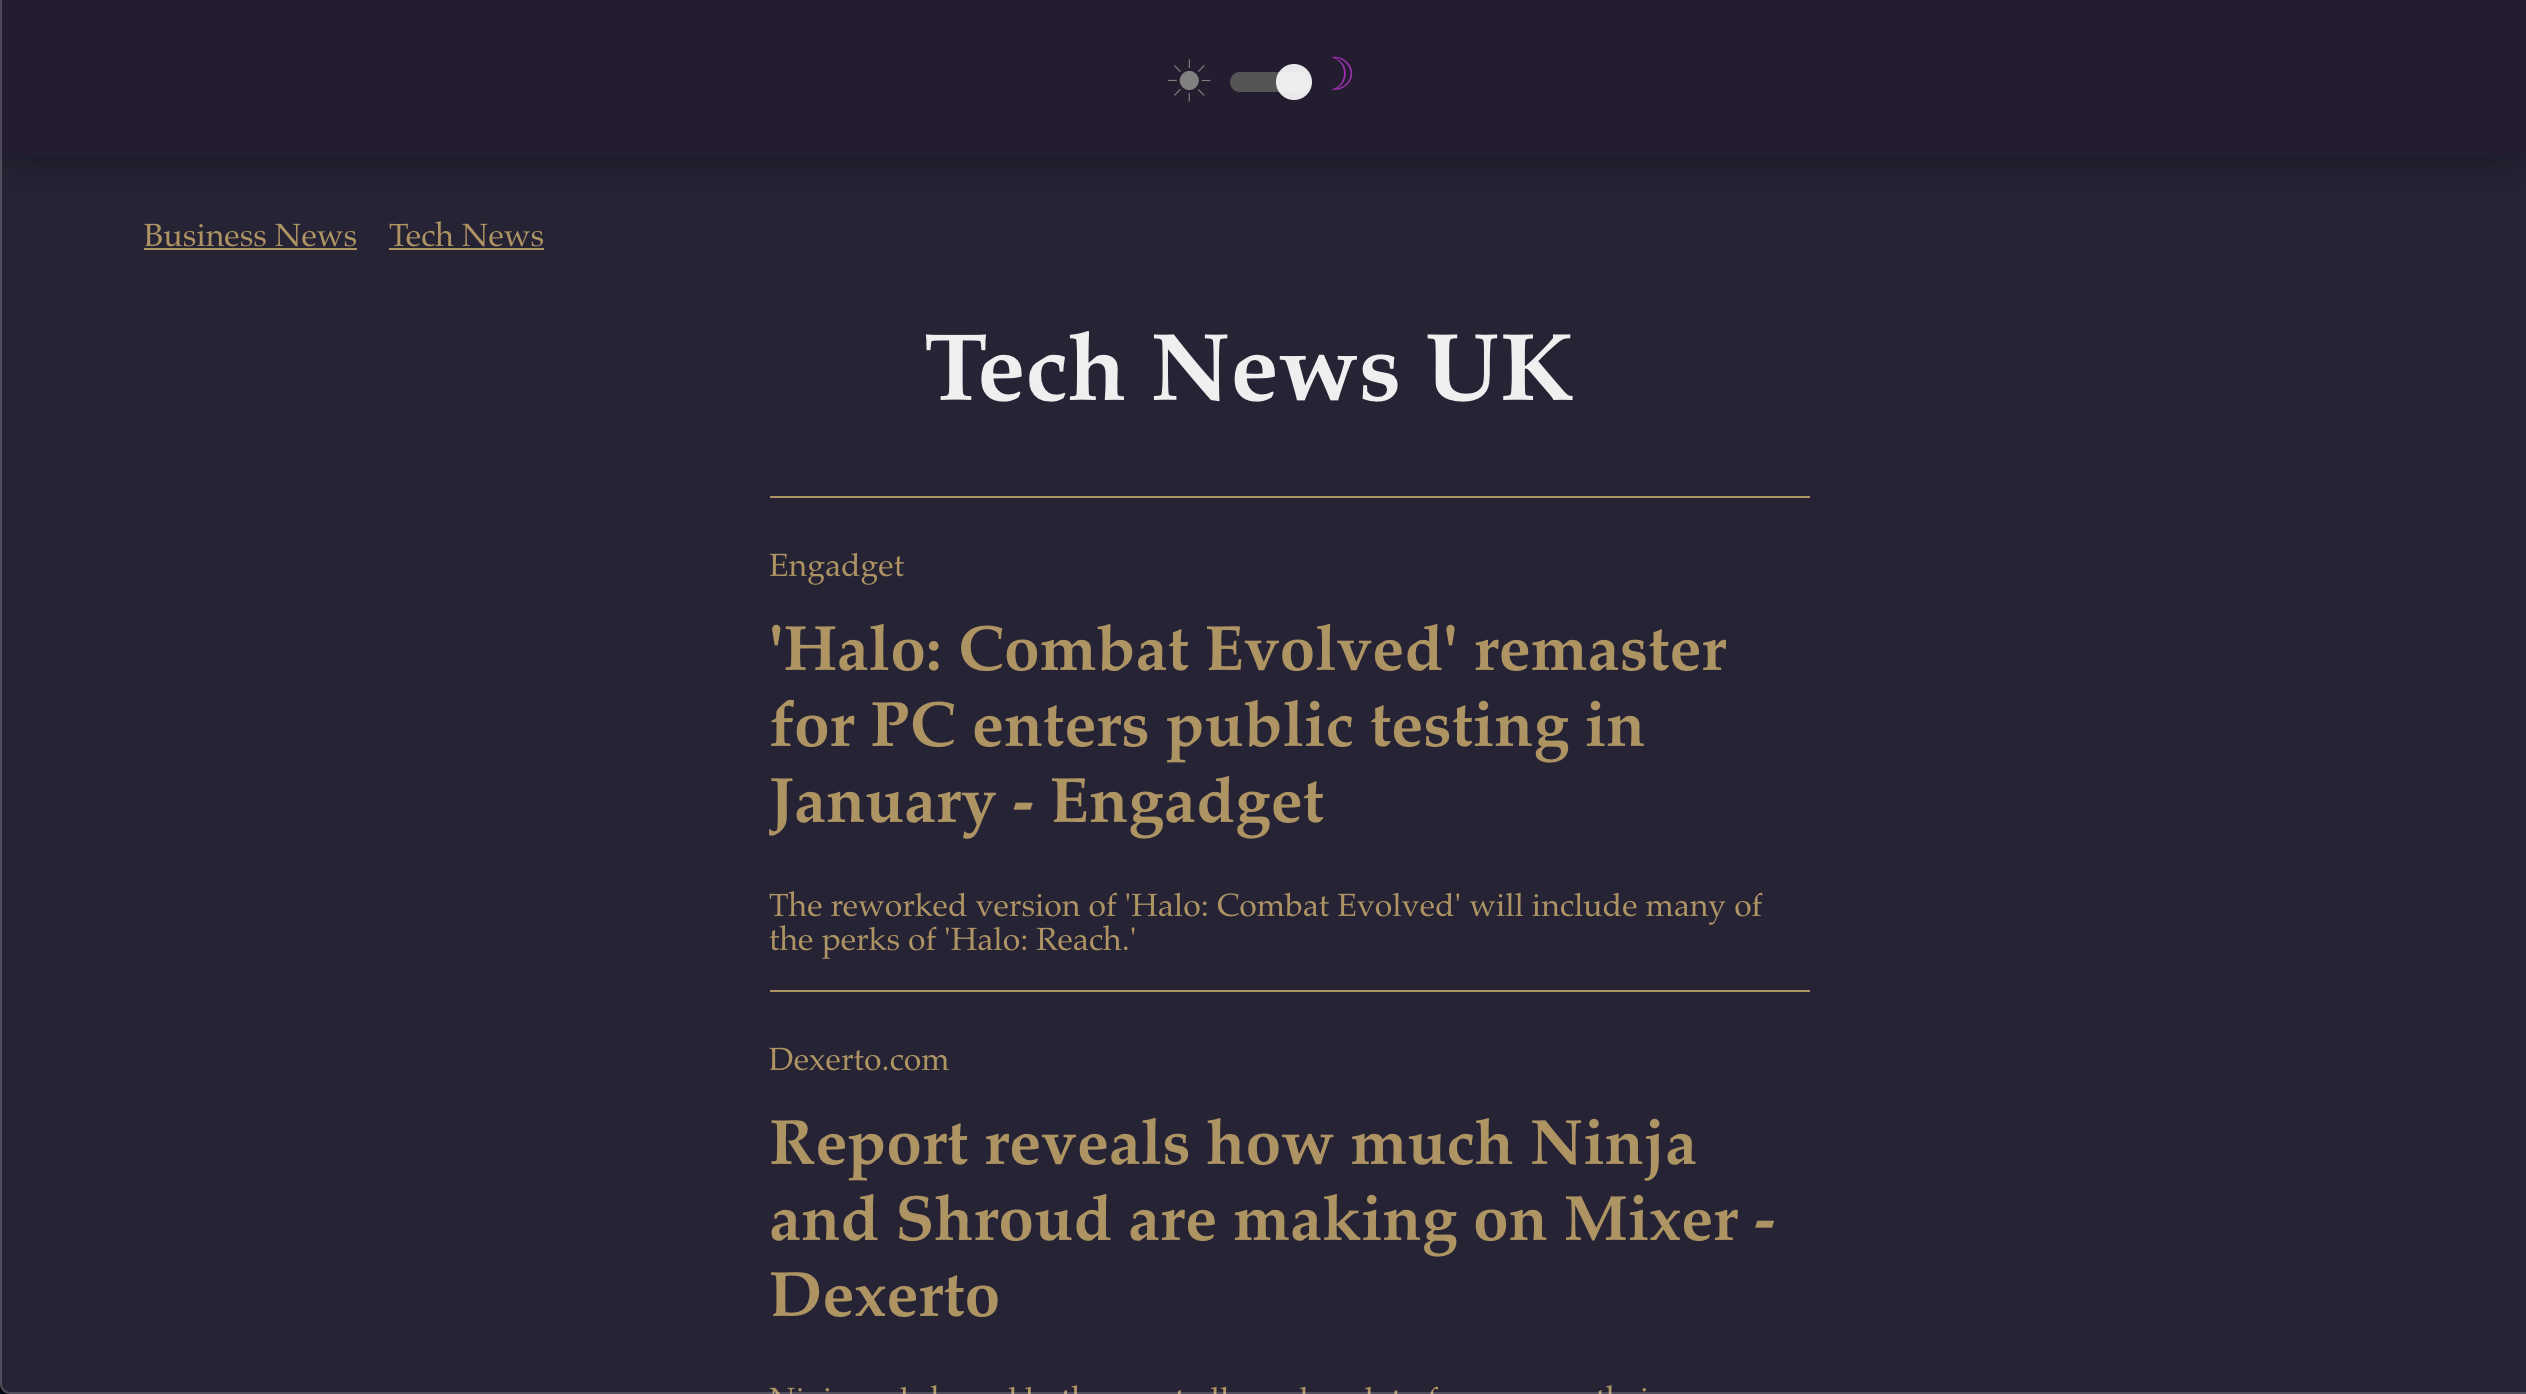
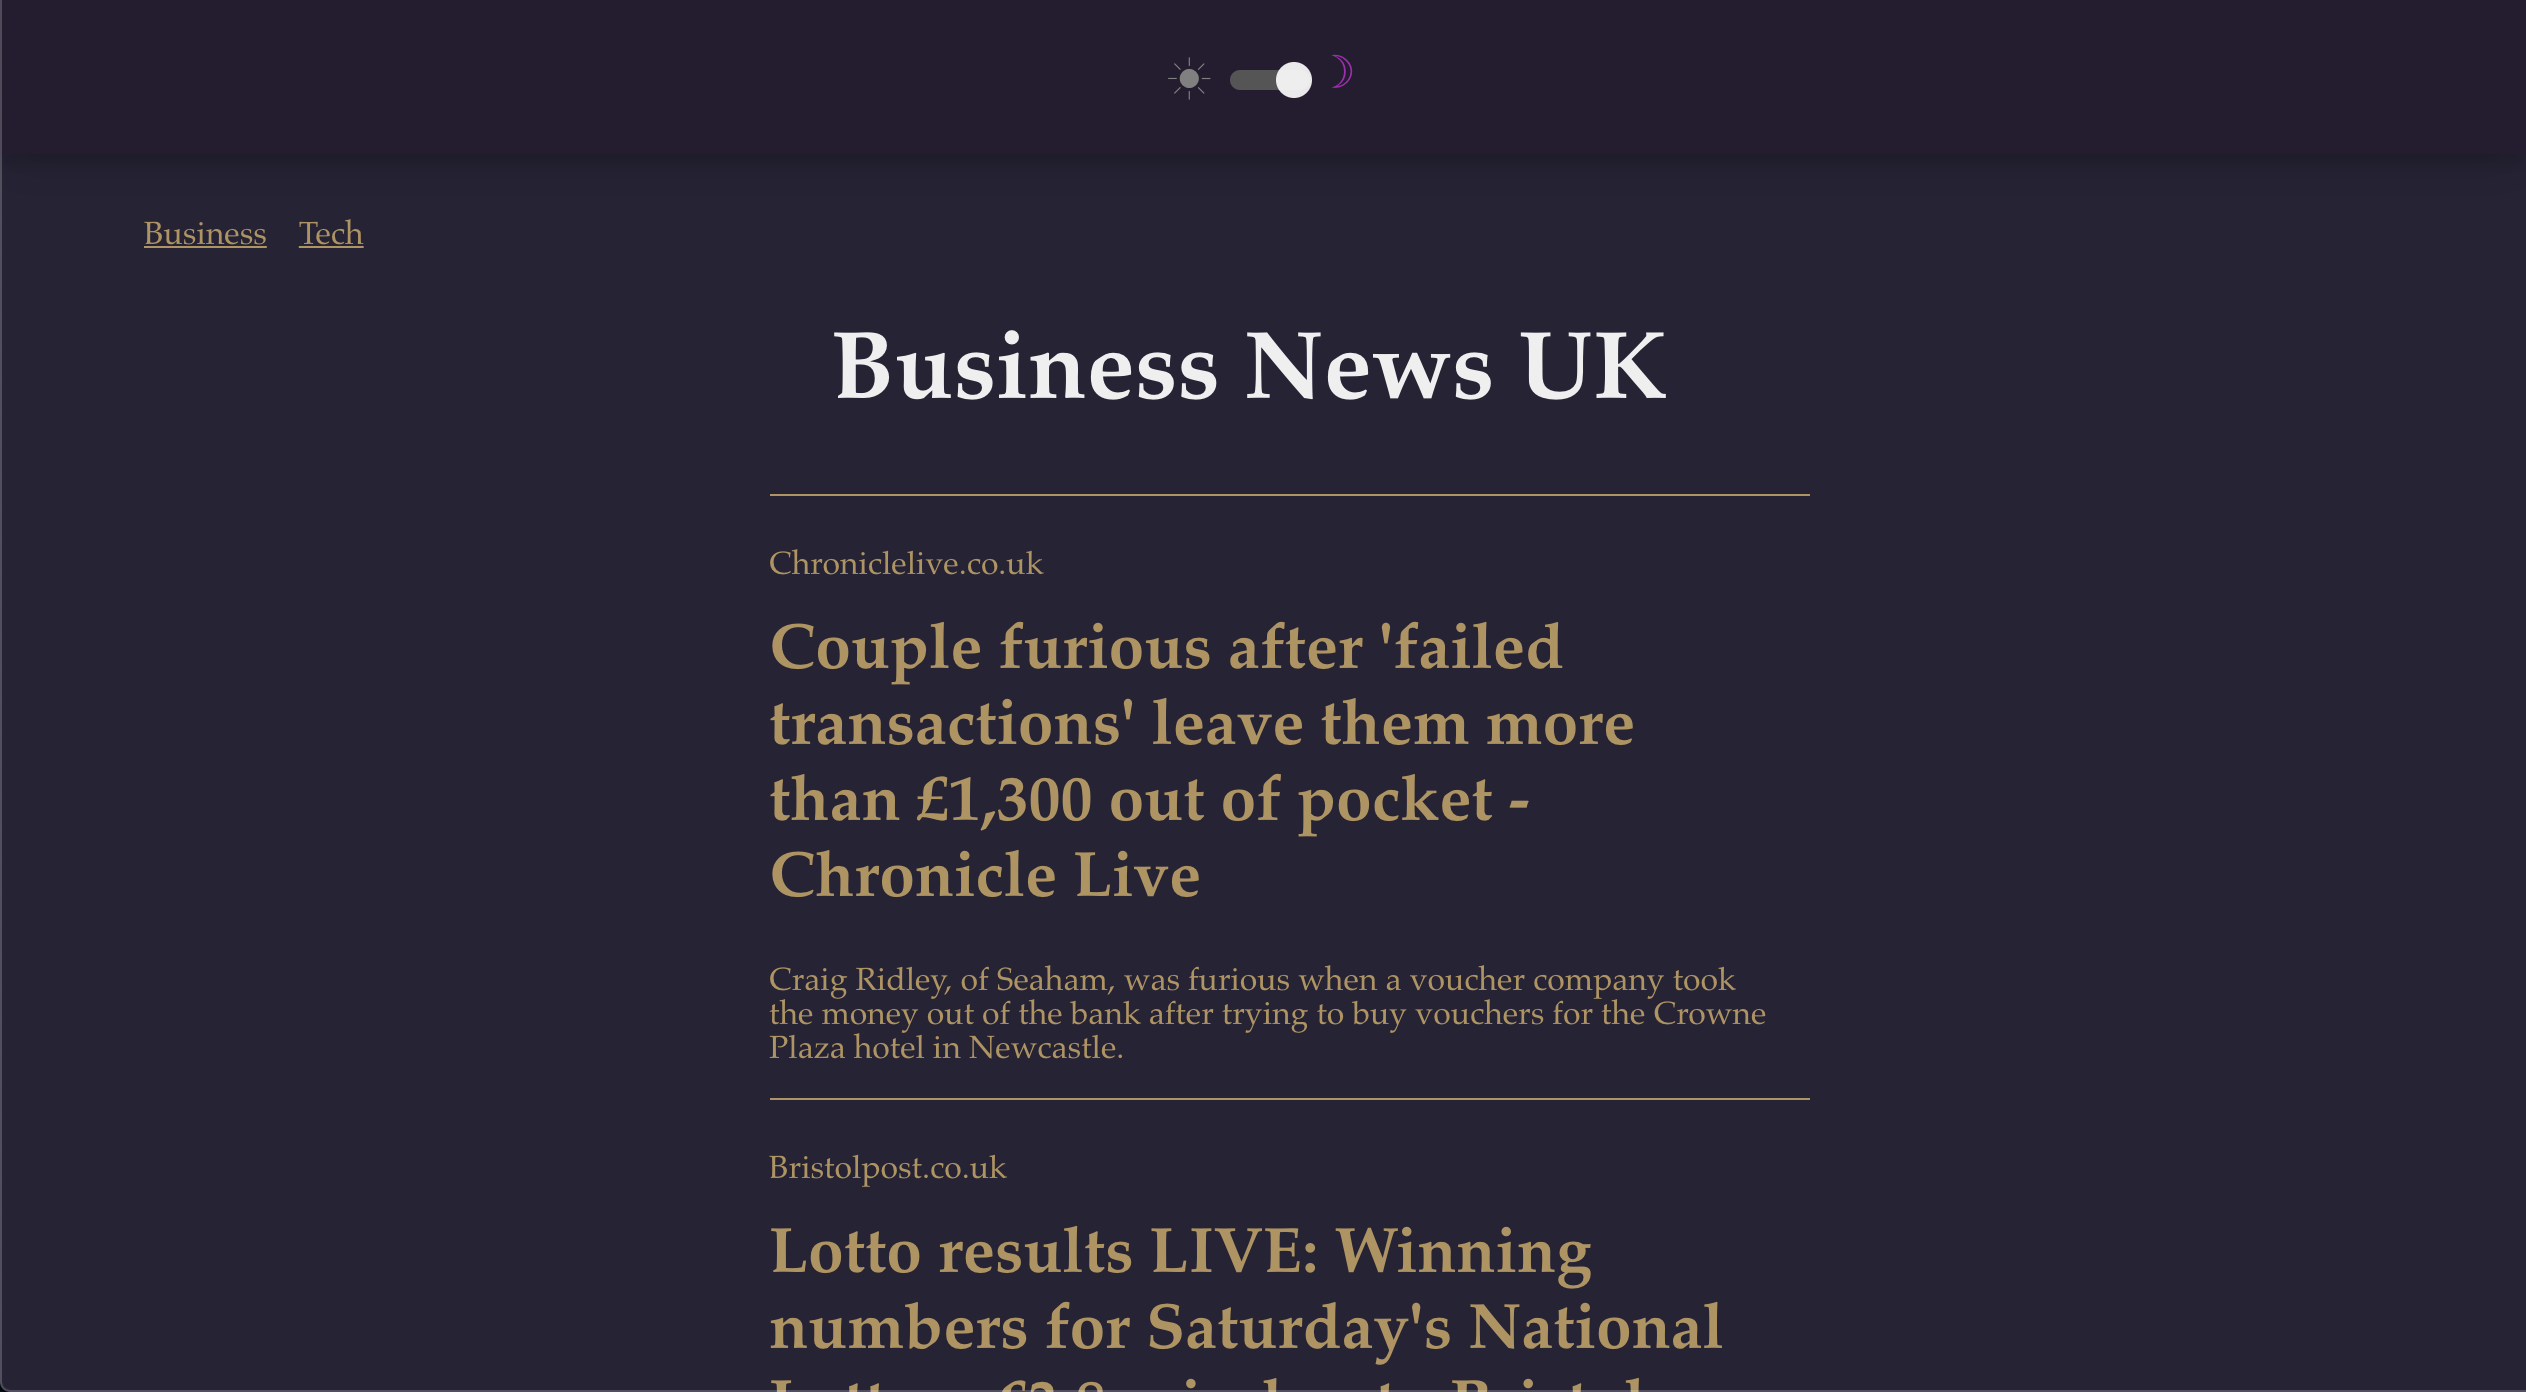
clean up

diff --git a/src/components/PageLinks.js b/src/components/PageLinks.js
@@ -11,12 +11,12 @@ const PageLinks = () => {
         <ul className='page-links'>
           <li className='page-link'>
             <NavLink to='/' exact>
-              Business News
+              Business
             </NavLink>
           </li>
           <li className='page-link'>
             <NavLink to='/tech' exact>
-              Tech News
+              Tech
             </NavLink>
           </li>
         </ul>
